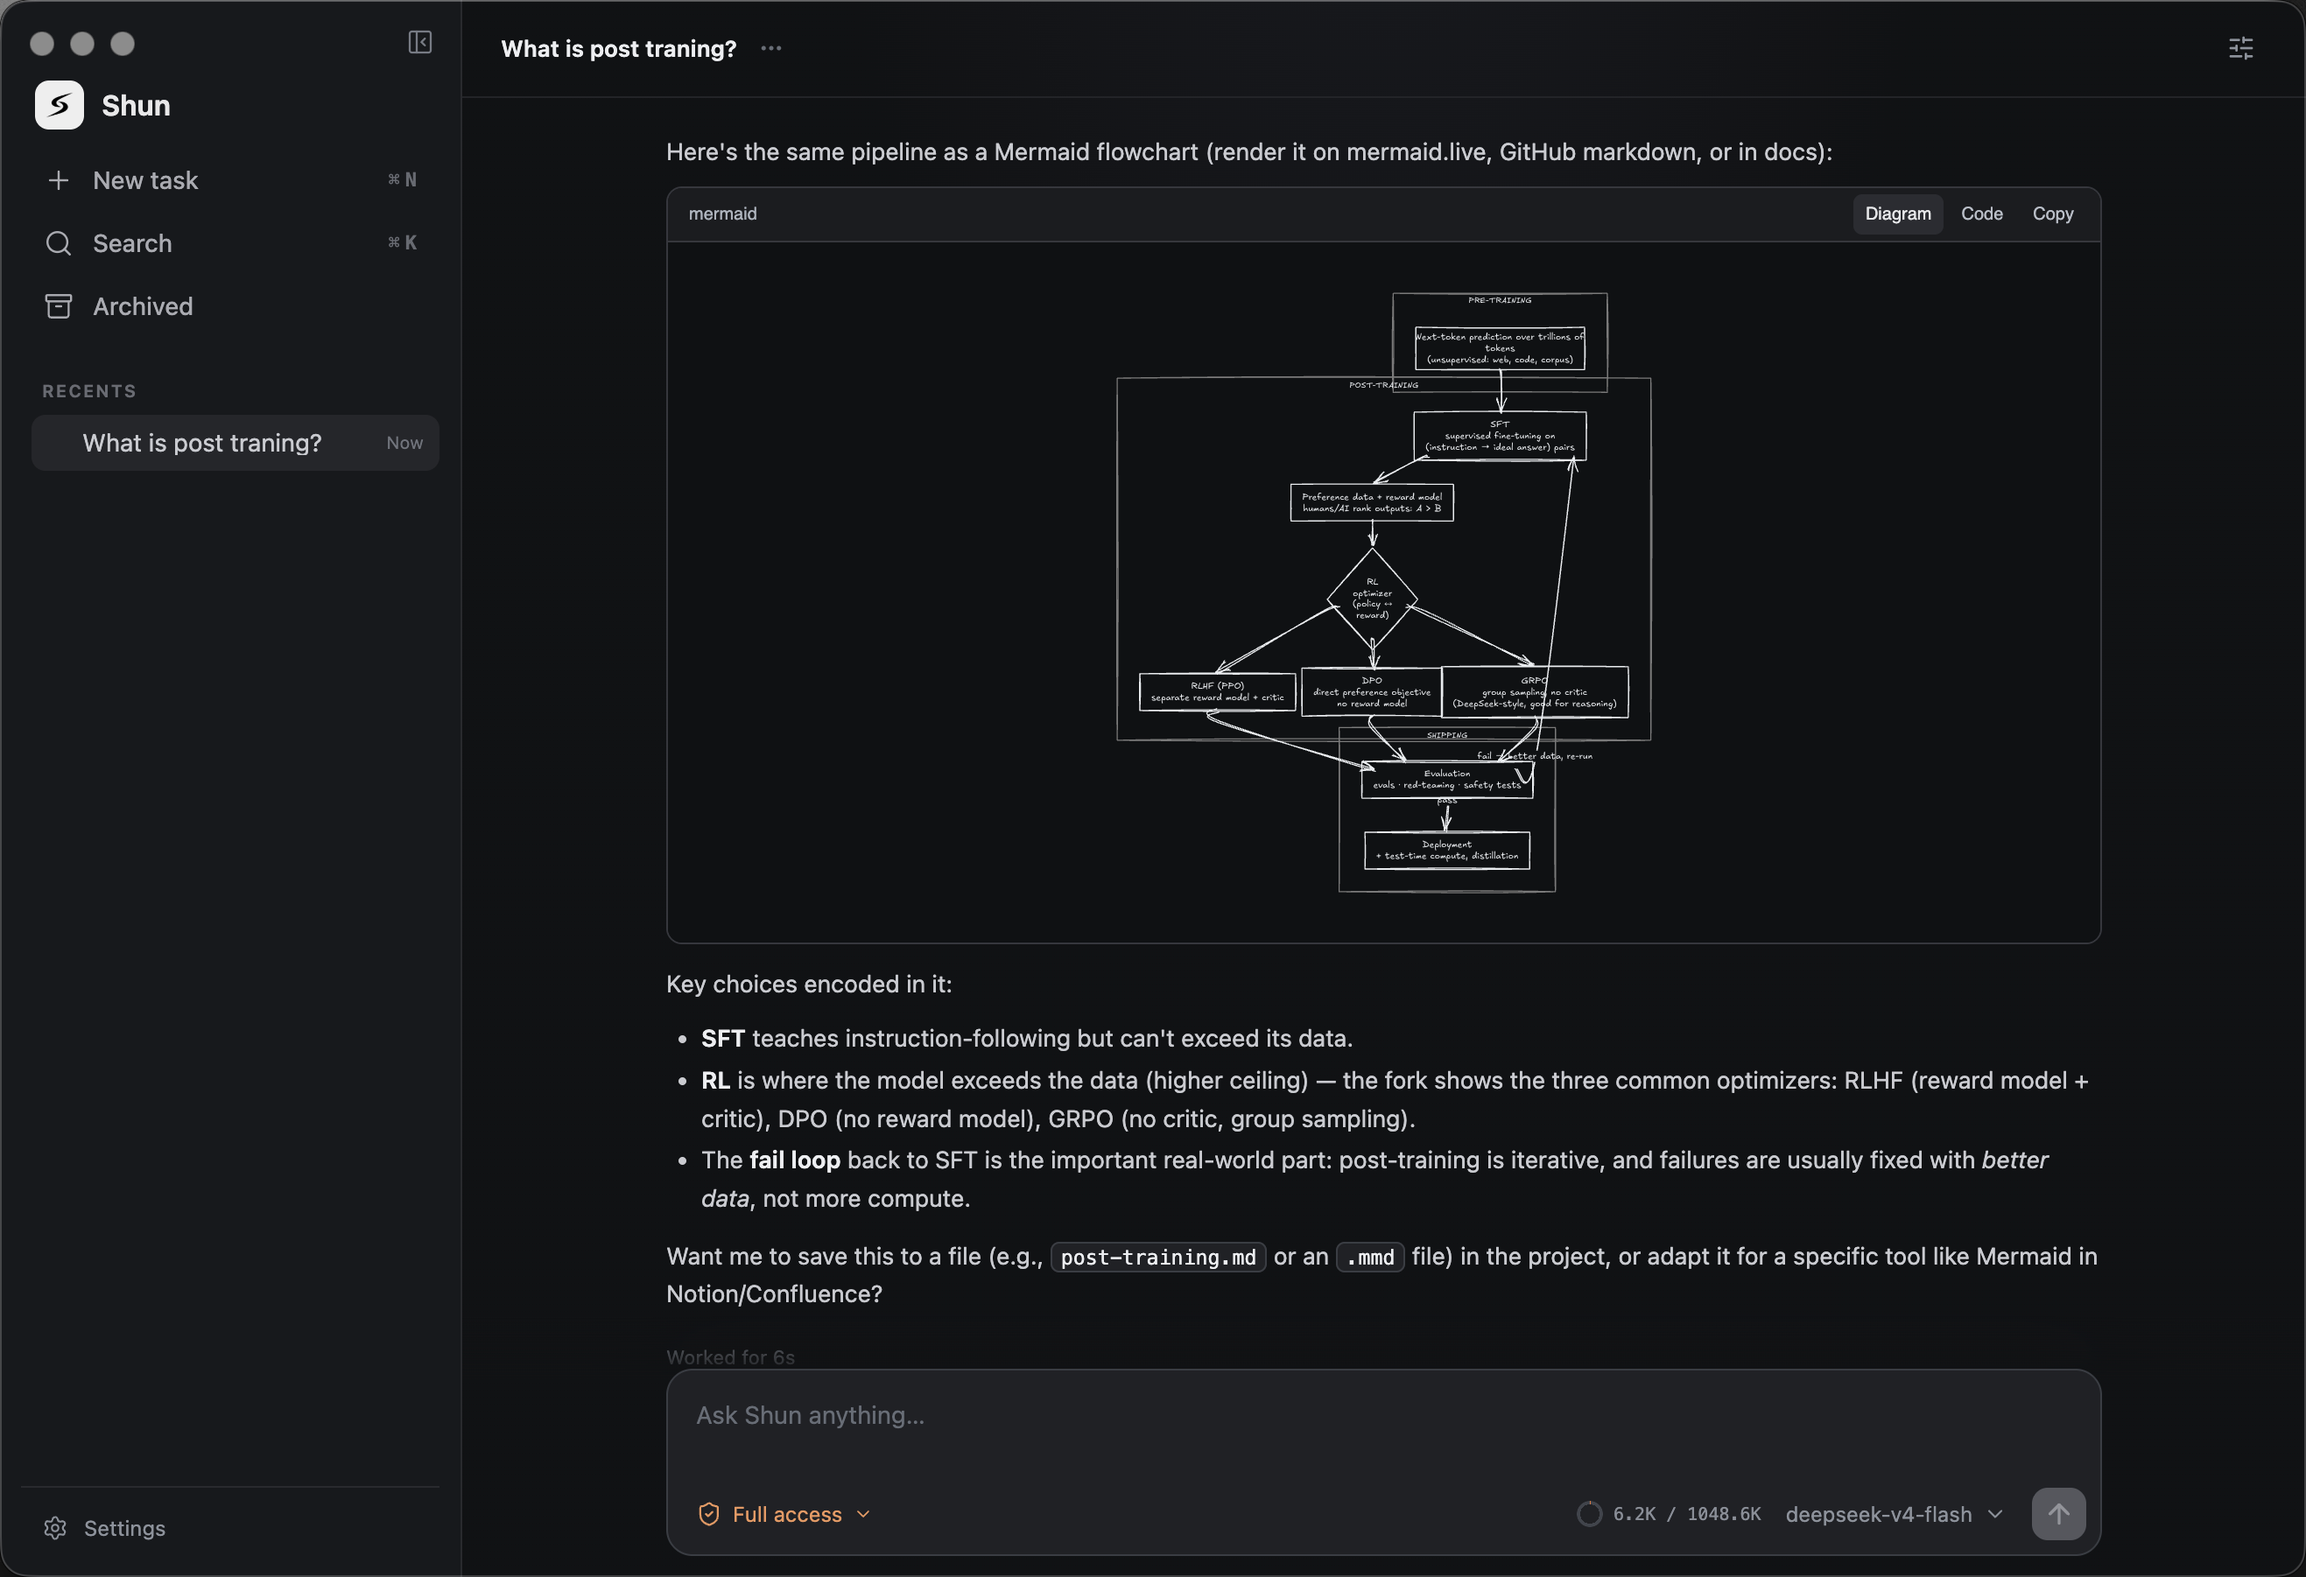
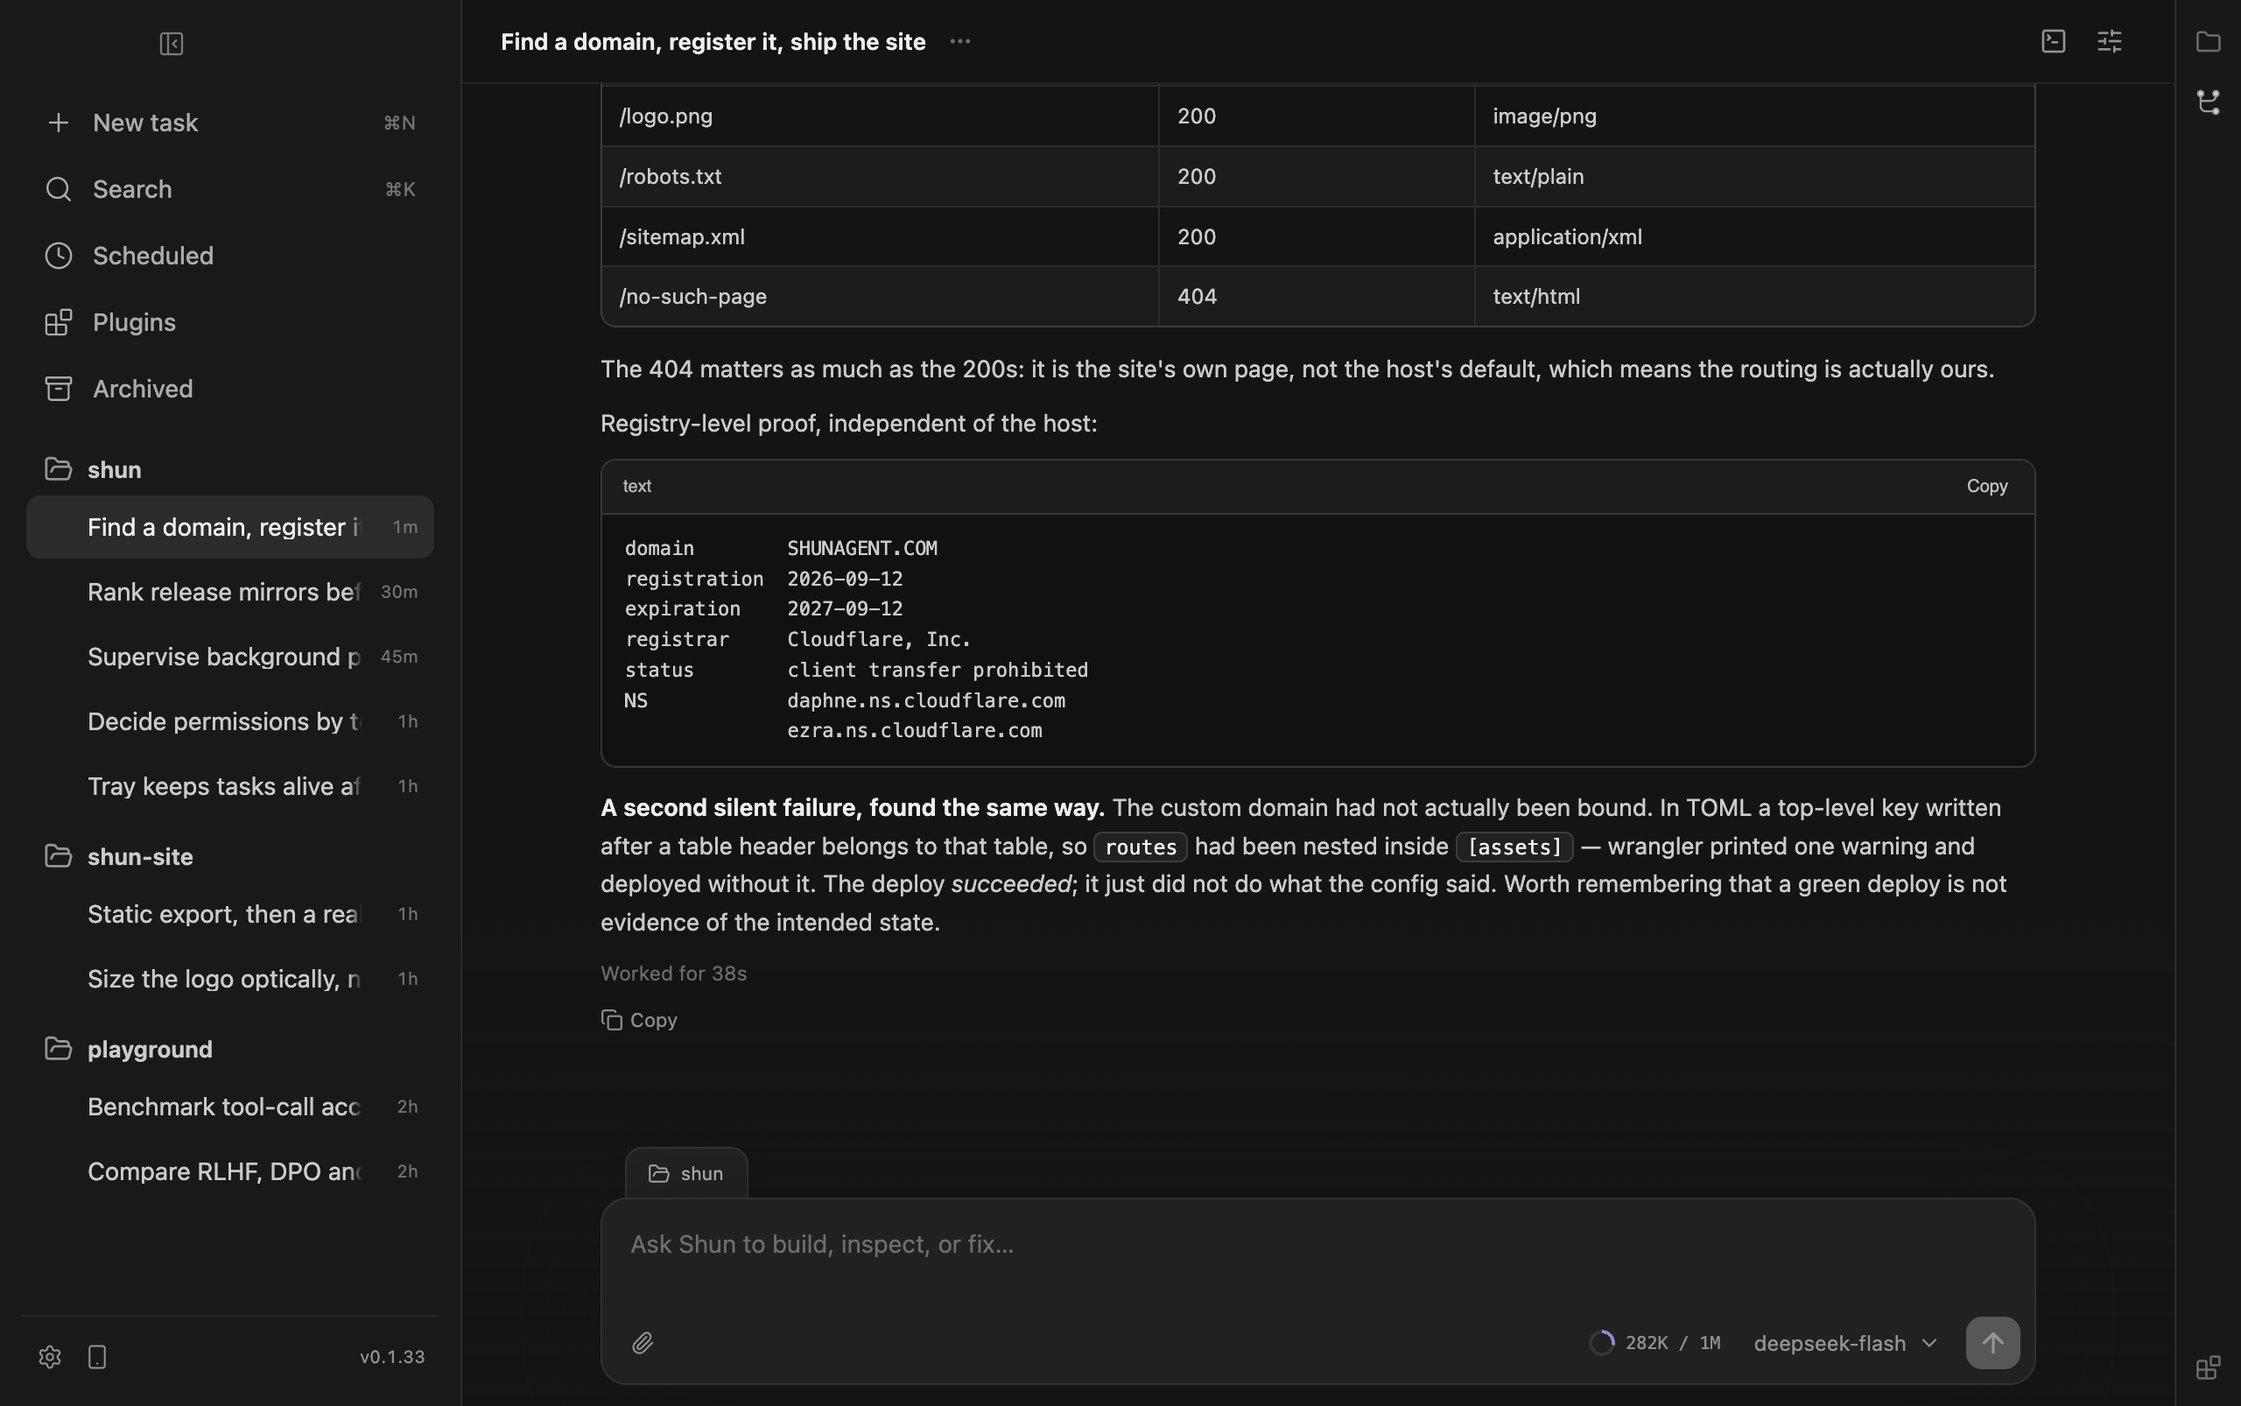
docs: reposition around local-first, plugins and privacy; add MIT license
- README leads with local-first and small-model-first, and spells out the
  context-economy work that makes a smaller model viable
- new Plugins section: packages, declared permissions, isolated surfaces,
  and building a plugin from inside Shun
- privacy stated plainly: no telemetry, no account, no service of ours in
  the loop, and cloud only where the user points it
- replace the outdated product screenshot with the current UI, and add
  TeX Lens and Git Workbench captures
- add LICENSE (MIT) plus the package.json license field

diff --git a/README.md b/README.md
@@ -3,18 +3,79 @@
   <h1>Shun</h1>
   <p><strong>Serious coding agents, running on hardware you own.</strong></p>
   <p><em>From intent to working software, in an instant.</em></p>
+  <p>
+    <a href="https://shunagent.com"><img src="https://img.shields.io/badge/website-shunagent.com-7c8cff" alt="Website" /></a>
+    <a href="LICENSE"><img src="https://img.shields.io/badge/license-MIT-7c8cff" alt="License: MIT" /></a>
+  </p>
 </div>
 
 **Shun** (瞬) means *an instant* in Japanese.
 
 The name captures what the product is for: shortening the distance between an idea and working software.
 
-Shun is a desktop coding harness for capable models running on consumer GPUs. It provides durable context, real tools, parallel tasks, explicit permissions, background processes, and a calm interface built for long sessions.
+Shun is a **local-first** desktop coding harness for capable models running on consumer GPUs. It is built for the models you can actually run, on the machine in front of you — and it is built so that a small model gets a serious harness instead of a demo.
+
+It runs on your hardware, keeps your work there, and reports to nobody. There is no telemetry, no account to sign into, and no service of ours in the loop. The only network traffic Shun produces is what you configure: your model provider, and update checks you can point at your own mirror.
 
 Our goal is to build the best coding harness for any model that fits on a consumer GPU.
 
 <p align="center">
-  <img src="resources/product.png" width="1200" alt="Shun desktop application" />
+  <img src="resources/product.png" width="1200" alt="Shun working a task: checking domain registration at the registry, registering an available name on Cloudflare, then building and deploying a static site and verifying the live response codes." />
+</p>
+
+## Local first
+
+### Your code stays on your machine
+
+Put the weights on your own GPU and a task touches nothing but your disk. Transcripts, tool output, browser findings and files stay where they were written, and they stay there until you delete them.
+
+If you do choose a hosted provider, only the results relevant to that task go to that provider, and nowhere else. Research, MCP servers and browser access are per-task capabilities that are off until a task asks for them.
+
+Read the [Browser Use privacy policy](PRIVACY.md) for the one component that touches browsing data, and note that even it talks only over a loopback connection to the locally running app.
+
+### Work close to your code
+
+Run models close to your code and data without giving up repository access, web research, MCP tools, structured execution, or rich output.
+
+### Keep tasks independent
+
+Every task keeps its own history, draft, approvals, execution state, and active run. Work can continue in the background without hijacking the conversation in front of you.
+
+### Keep long-running processes visible
+
+Development servers and other long-running programs are treated as durable resources. Shun tracks their state, logs, endpoints, and ownership across tasks and application restarts.
+
+## Small models first
+
+A frontier model will paper over a bad harness. A small one will not — it forgets, it calls tools badly, and it loses the thread the moment the prompt fills with things it does not need. That makes it the useful test, and it is the case Shun is designed around rather than tolerates.
+
+The work that makes a smaller model viable is mostly about spending context carefully:
+
+- **Capability arrives on demand.** Tools and plugin capabilities a task is not using stay out of the prompt and are exposed only when searched for, so a plugin can ship twenty tools and cost nothing until one is relevant.
+- **Every tool returns bounded output.** Local reads stream instead of loading a file into the transcript, and search results are bounded by construction. A tool catalogue is not allowed to spend the budget before work starts.
+- **Edits are atomic.** One coherent change is one batch of replacements in one call, so a model that plans imperfectly still lands a single reviewable edit instead of a trail of half-steps.
+- **Arguments are validated.** A malformed tool call comes back as a usable correction rather than a dead end a weak model cannot recover from.
+- **Context is measured, not guessed.** Usage is counted against the model's real window and stays visible while a task runs.
+- **Quirks stay at the adapter boundary.** Reasoning replay, thinking format and per-model compatibility are handled in provider adapters, so the loop keeps one shape across every model instead of branching on it.
+
+## Plugins
+
+Plugins are packages, not patches. A plugin installs, versions and uninstalls on its own, and can contribute tools, skills, and its own interface — which runs on a separate origin against an explicit RPC surface, so the kernel never renders plugin code and plugin code never reaches into the transcript.
+
+Each plugin declares what it needs in its manifest (`workspace.read`, `workspace.git.write`, `workspace.process`), so you read the permissions before you enable it rather than discovering them at runtime. A plugin can also declare the native executables it requires, per platform and architecture.
+
+**Shun builds plugins on its own.** A task can scaffold a package, implement it, install it, reload it, and drive its view through the production host until the flow passes — without leaving the app and without a second toolchain. Plugins under construction register from their source directory and reload in place, and they appear in the app under **Development plugins**.
+
+<p align="center">
+  <img src="resources/plugin-tex-lens.png" width="1200" alt="TeX Lens, a plugin, open beside a conversation: it has compiled a LaTeX file locally with its own Tectonic renderer and is rendering the resulting PDF page." />
+  <br />
+  <em>TeX Lens ships its own native toolchain: it discovers the workspace's main <code>.tex</code> file, compiles it locally with a plugin-managed Tectonic renderer, and renders the real PDF in the panel — live, on every save.</em>
+</p>
+
+<p align="center">
+  <img src="resources/plugin-git-workbench.png" width="1200" alt="Git Workbench, a plugin, open beside the same conversation: commit graph with release tags, and the code diff for the commit in view." />
+  <br />
+  <em>Git Workbench, the same host: commit graph, branch actions, and the diff for the commit in view.</em>
 </p>
 
 ## Download
@@ -27,7 +88,7 @@ Download the newest version from [GitHub Releases](https://github.com/kyleslight
 
 Installed builds check for updates shortly after launch and every ten minutes. When a new version is available, Shun can download it and restart into the update.
 
-The update path does not assume that `github.com` is reachable or fast. Before downloading, Shun measures every release source — the GitHub release itself and the GitHub proxies that mirror the same paths — and uses the fastest reachable one, keeping the directly hosted copy unless a proxy is clearly faster. A failed download retries through the remaining sources, and a package that did not come from GitHub is verified against the release's published SHA-256 checksums before it can be installed. To host your own mirror, set `SHUN_UPDATE_BASE` to its asset base URL (for example `https://dl.example.com/shun`); it is preferred whenever it is competitive.
+The update path does not assume that `github.com` is reachable or fast. Before downloading, Shun measures every release source — the GitHub release itself and the GitHub proxies that mirror the same paths — and uses the fastest reachable one, keeping the directly hosted copy unless a proxy is clearly faster. A failed download retries through the remaining sources, and a package that did not come from GitHub is verified against the release's published SHA-256 checksums before it can be installed. To host your own mirror, set `SHUN_UPDATE_BASE` to its asset base URL (for example `https://shunagent.com/shun`); it is preferred whenever it is competitive.
 
 ## Windows and developer tooling
 
@@ -44,20 +105,6 @@ Because nothing is installed for you, a tool that is unpacked without being adde
 ## Browser Use
 
 The optional Browser Use plugin works with the user's existing Chrome tabs and signed-in state. While its Chrome Web Store release is paused, use Shun's one-time **Set up Chrome** flow to load the bundled extension from a stable per-user folder. See the [installation guide](docs/browser-use-installation.md) and [privacy policy](PRIVACY.md).
-
-## Built for local models
-
-### Work close to your code
-
-Run models close to your code and data without giving up repository access, web research, MCP tools, structured execution, or rich output.
-
-### Keep tasks independent
-
-Every task keeps its own history, draft, approvals, execution state, and active run. Work can continue in the background without hijacking the conversation in front of you.
-
-### Keep long-running processes visible
-
-Development servers and other long-running programs are treated as durable resources. Shun tracks their state, logs, endpoints, and ownership across tasks and application restarts.
 
 ## What Shun brings together
 
@@ -78,3 +125,7 @@ Shun currently targets macOS. Development requires Node.js 22 or later and pnpm 
 pnpm install
 pnpm dev
 ```
+
+## License
+
+MIT — see [LICENSE](LICENSE).
